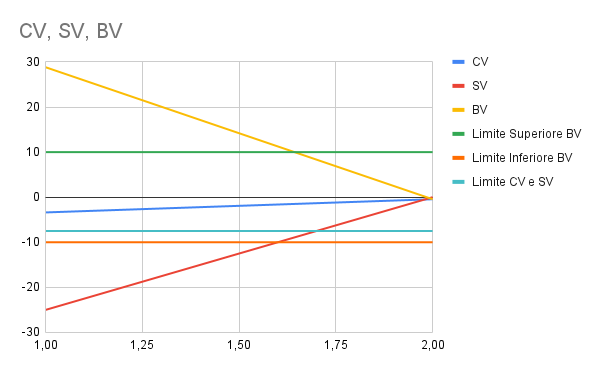
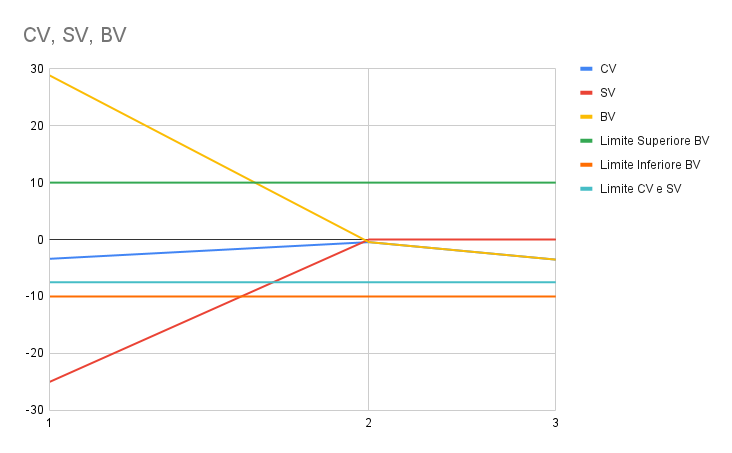
#50 Aggiornato Piano di qualifica allo Sprint 3

Changed region(s): [[0.03, 0.0593, 0.99, 0.9488], [0.33, 0.3261, 0.39, 0.3558]]

diff --git a/RTB/latex/Piano_di_qualifica.tex b/RTB/latex/Piano_di_qualifica.tex
@@ -91,6 +91,8 @@
   \hline
   \textbf{Ver.} & \textbf{Autore} & \textbf{Modifiche} & \textbf{Data} & \textbf{Verifica} \\
   \hline
+  0.2 & Stefano Maso & Aggiornamento Cruscotto di valutazione a seguito del terzo sprint & 17/02/2026 & - \\
+  \hline
   0.1 & Stefano Maso & Prima stesura documento completo & \slashdate{\displaydate{dataverbale}} & Besnik Murtezan \\
   \hline
 \end{tabular}
@@ -506,10 +508,10 @@ Diagrammi dei casi d'uso$^G$ erronei & I diagrammi dei casi d'uso devono riporta
 \subsection{PC01-EAC (Estimated at Completion)}
 \begin{figure}[H]
     \centering
-    \includegraphics[width=0.9\linewidth]{resources/chart.png}
+    \includegraphics[width=0.9\linewidth]{resources/EAC.png}
     \caption{Estimated at Completion}
 \end{figure}
-Dal grafico si può notare come l'EAC superi il valore accettabile di quest'ultimo. La causa di questa situazione è riconducibile ad una scorretta divisione tra ore produttive e individuali. Dopo la fase iniziale il gruppo dovrebbe riuscire a rientrare nei valori ottimali. Il team è consapevole che l'andamento è dovuto ad una gestione errata del progetto, perciò tutti i membri dovranno impegnarsi per rientrare nel valore ottimale.
+Dal grafico si può notare come l'EAC, al termine del terzo sprint, si trovi all'interno del limite superiore ma comunque al di sopra di BAC. Il team è consapevole che l'andamento è dovuto ad una gestione errata del progetto, perciò tutti i membri dovranno impegnarsi per rientrare nel valore ottimale.
 
 \subsection{PC02-PV (Planned Value) e PC04-EV (Earned Value)}
 \begin{figure}[H]
@@ -517,7 +519,7 @@ Dal grafico si può notare come l'EAC superi il valore accettabile di quest'ulti
     \includegraphics[width=0.9\linewidth]{resources/EV rispetto a PV.png}
     \caption{Planned Value - Earned Value}
 \end{figure}
-Le linee del PV e dell'EV sono vicine, ma dall'ultimo periodo si stanno allontanando, il dovrà dunque impegnarsi maggiormente per svolgere ad ogni periodo quanto pianificato.
+Le linee del PV e dell'EV sono praticamente sovrapposte, ciò significa che il gruppo negli ultimi due periodi sta svolgendo esattamente quanto pianificato.
 
 \subsection{PC05-ETC (Estimated to Complete)}
 \begin{figure}[H]
@@ -525,7 +527,7 @@ Le linee del PV e dell'EV sono vicine, ma dall'ultimo periodo si stanno allontan
     \includegraphics[width=0.9\linewidth]{resources/ETC.png}
     \caption{Estimated to Complete}
 \end{figure}
-Dal grafico si evince che è necessario produrre più valore in ciascun periodo in modo da rientrare nel costo pianificato.
+Dal grafico si evince che è necessario produrre più valore in ciascun periodo in modo da rientrare nel costo pianificato. Ora come ora il progetto rischia di chiudere sopra budget di circa 3-4\%.
 
 \subsection{PC06-CV (Cost Variance), PC07-SV (Schedule Variance) e PC08-BV (Budget Variance)}
 \begin{figure}[H]
@@ -533,7 +535,7 @@ Dal grafico si evince che è necessario produrre più valore in ciascun periodo 
     \includegraphics[width=0.9\linewidth]{resources/CV, SV, BV.png}
     \caption{Cost Variance, Schedula Variance e Budget Variance}
 \end{figure}
-Dopo un primo periodo in cui sia il Budget Variance chche lo Schedule Variance erano lontanissimi dal valore preferibile, siamo giunti a un buon punto. Allo stesso modo, la Cost Variance si sta avvicinando al valore preferibile.
+Il gruppo deve impegnarsi come sta facendo per mantenere la \textit{Cost Variance}, la \textit{Schedule Variance} e la \textit{Budget Variance} all'interno dei limiti accettabili. Al termine del terzo sprint tutte e tre le metriche hanno valori accettabili.
 
 \section{Valutazioni per il miglioramento}
 Questa sezione è dedicata alla valutazione generale del lavoro, con lo scopo di inserire osservazioni sui problemi riscontrati e sulle possibili correzioni da adottare.

diff --git a/RTB/latex/Norme_di_progetto.tex b/RTB/latex/Norme_di_progetto.tex
@@ -280,7 +280,7 @@ Un documento attraversa le seguenti fasi:
 \subsection{Controllo di configurazione}
 
 \subsubsection{GitHub e Git}
-Il gruppo ha deciso di utilizzare Git come strumento di versionamento locale e remoto e GitHub come servizio cloud in cui mantenere la repository
+Il gruppo ha deciso di utilizzare Git$^G$ come strumento di versionamento locale e remoto e GitHub$^G$ come servizio cloud in cui mantenere la repository
 completa sempre accedibile da tutti i membri del gruppo.
 (\href{https://git-scm.com/}{\underline{Link Sito Ufficiale Git}})
 (\href{https://github.com/}{\underline{Link GitHub}})
